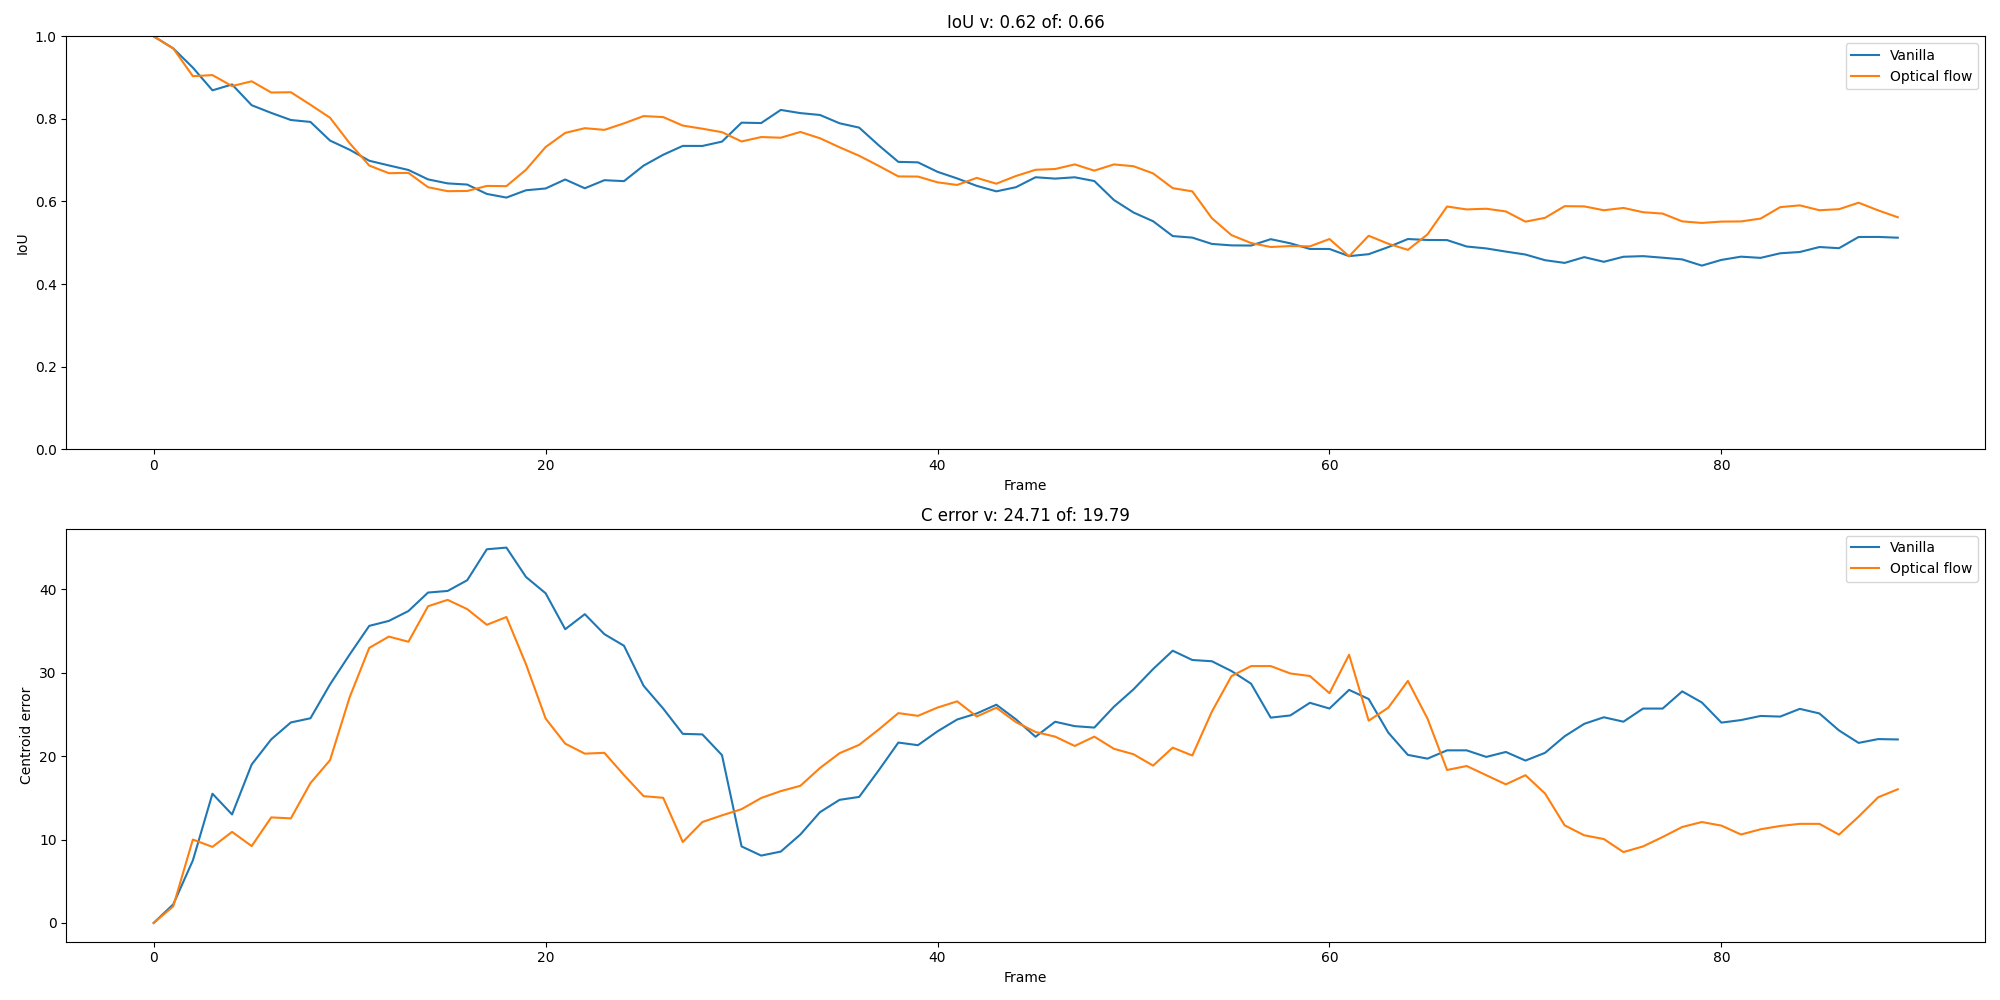
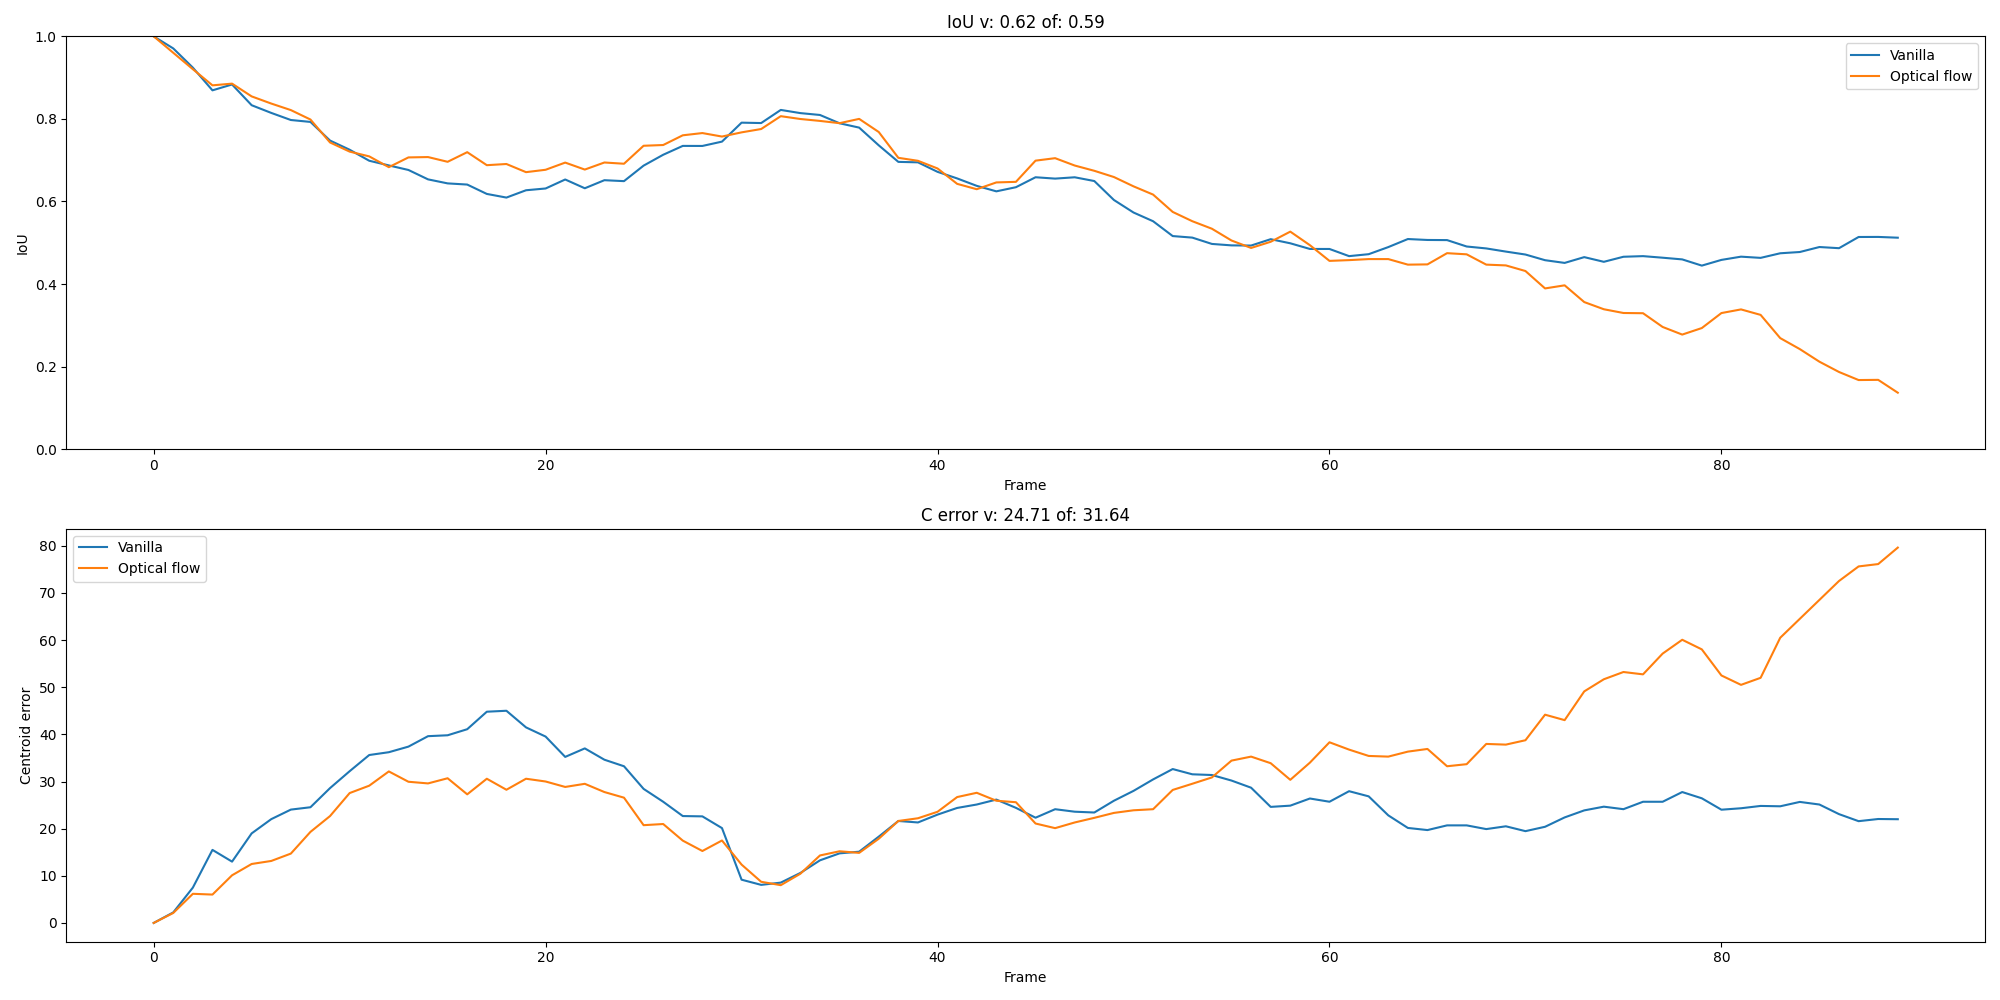
refine optical flow

diff --git a/tracker.py b/tracker.py
@@ -38,17 +38,28 @@ class Tracker():
     def step(self, image, show=False):
         assert self.is_init, "Tracker not initialized"
         
-        if self.optical_flow == "tvl1":
-            u, v = delta_by_optical_flow(self.prev_img, image, mode="tvl1")
-        elif self.optical_flow == "ilk":
-            u, v = delta_by_optical_flow(self.prev_img, image, mode="ilk")
+        
+        prev_sample, opts_prev = crop_sample({'image': self.prev_img,
+                                             'bb': self.prev_box})
+        curr_sample, opts_curr = crop_sample({'image': image,
+                                             'bb': self.prev_box})
+        
+        if self.optical_flow is not None:
+            # compute optical flow of cropped images
+            temp_prev = prev_sample['image']
+            temp_curr = curr_sample['image']
+            if show:
+                plt.subplot(1, 2, 1)
+                plt.imshow(temp_prev)
+                plt.subplot(1, 2, 2)
+                plt.imshow(temp_curr)
+                plt.show()
+            u,v = delta_by_optical_flow(temp_prev, temp_curr, mode=self.optical_flow)
         else:
             u, v = 0, 0
             
         new_box = self.prev_box + np.array([u, v, u, v])
         
-        prev_sample, opts_prev = crop_sample({'image': self.prev_img,
-                                             'bb': self.prev_box})
         curr_sample, opts_curr = crop_sample({'image': image,
                                              'bb': new_box})
         

diff --git a/eval_utils.py b/eval_utils.py
@@ -112,7 +112,7 @@ def centroid_error(box1, box2):
     return np.sqrt((c1[0] - c2[0])**2 + (c1[1] - c2[1])**2)
     
     
-def delta_by_optical_flow(img1, img2, mode="tvl1", target_size=(32, 32)):
+def delta_by_optical_flow(img1, img2, mode="tvl1", target_size=(32,32)):
     """
     img1 and img2 are numpy arrays
     
@@ -121,6 +121,7 @@ def delta_by_optical_flow(img1, img2, mode="tvl1", target_size=(32, 32)):
     img1 = rgb2gray(img1)
     img2 = rgb2gray(img2)
     
+    h, w = img1.shape
     img1 = resize(img1, target_size)
     img2 = resize(img2, target_size)
     
@@ -128,14 +129,15 @@ def delta_by_optical_flow(img1, img2, mode="tvl1", target_size=(32, 32)):
     if mode == "tvl1":
         flow = optical_flow_tvl1(img1, img2)
     elif mode == "ilk":
-        flow = optical_flow_ilk(img1, img2)
+        flow = optical_flow_ilk(img1, img2, gaussian=True)
     else:
         raise ValueError(f"Invalid mode: {mode}")
     
     u = flow[...,0]
     v = flow[...,1]
-    u_mean = np.mean(u)
-    v_mean = np.mean(v)
+    # rescale to original size
+    u_mean = np.mean(u)/target_size[0] * w
+    v_mean = np.mean(v)/target_size[1] * h
     return u_mean, v_mean
 
 if __name__ == "__main__":
